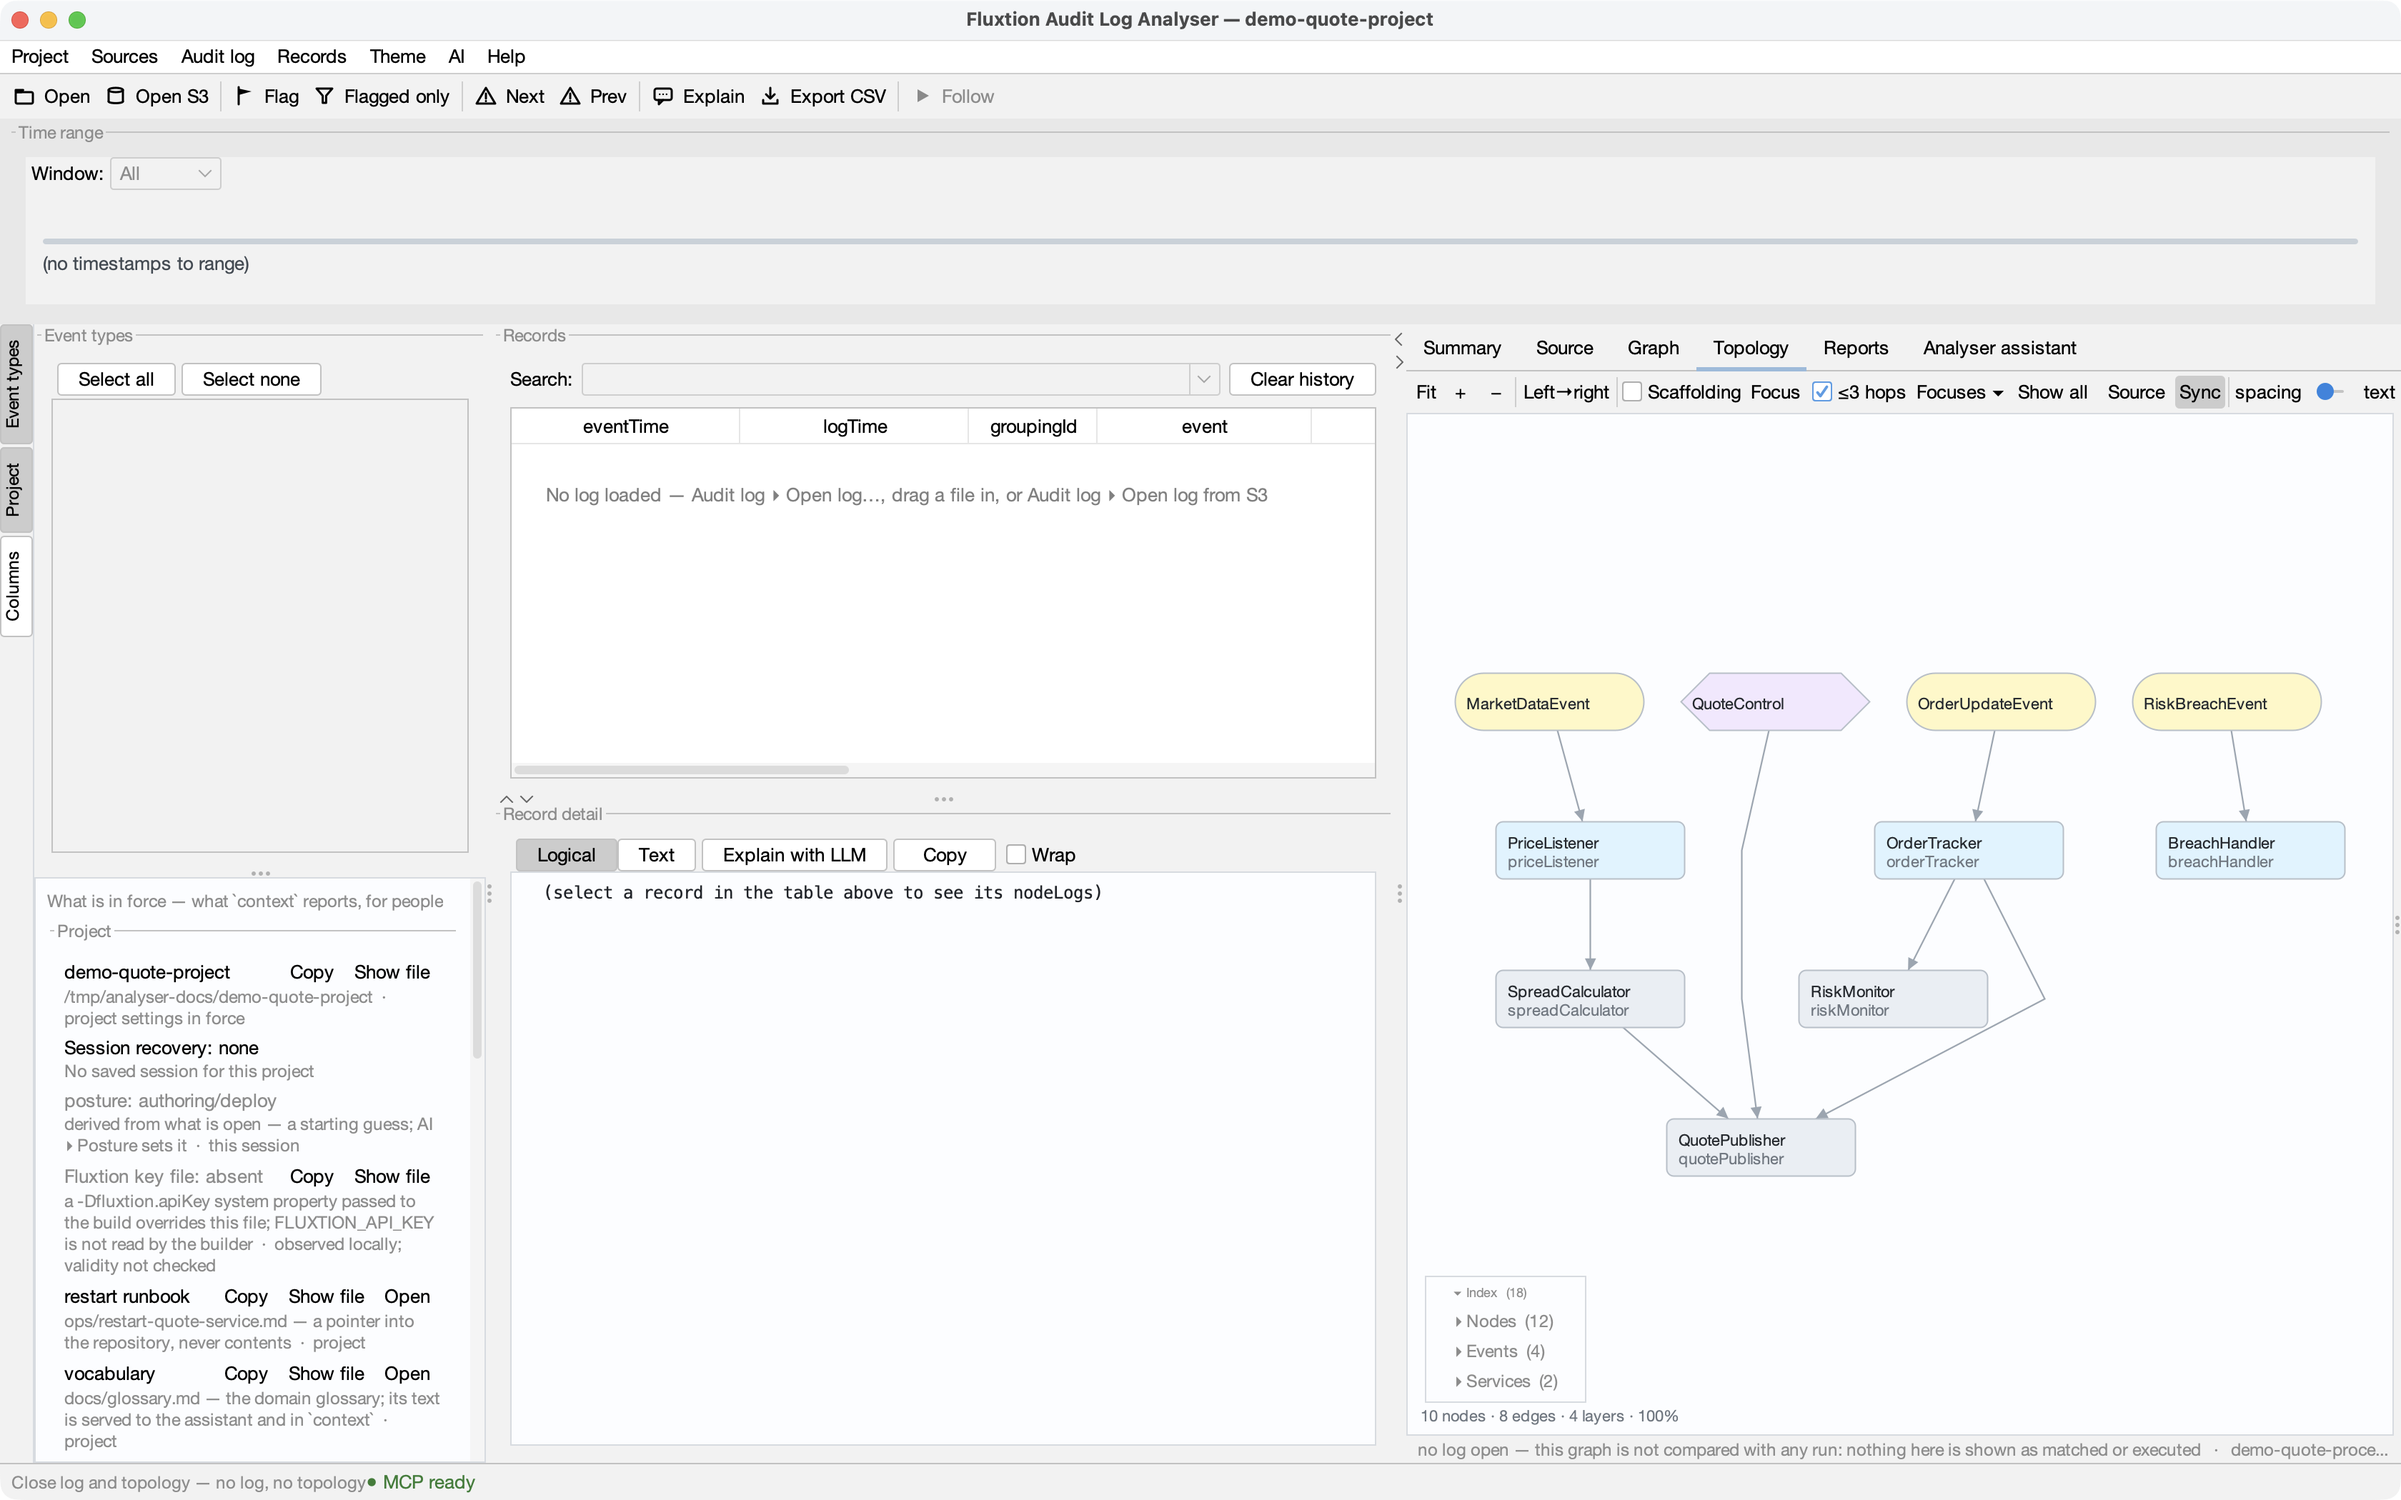
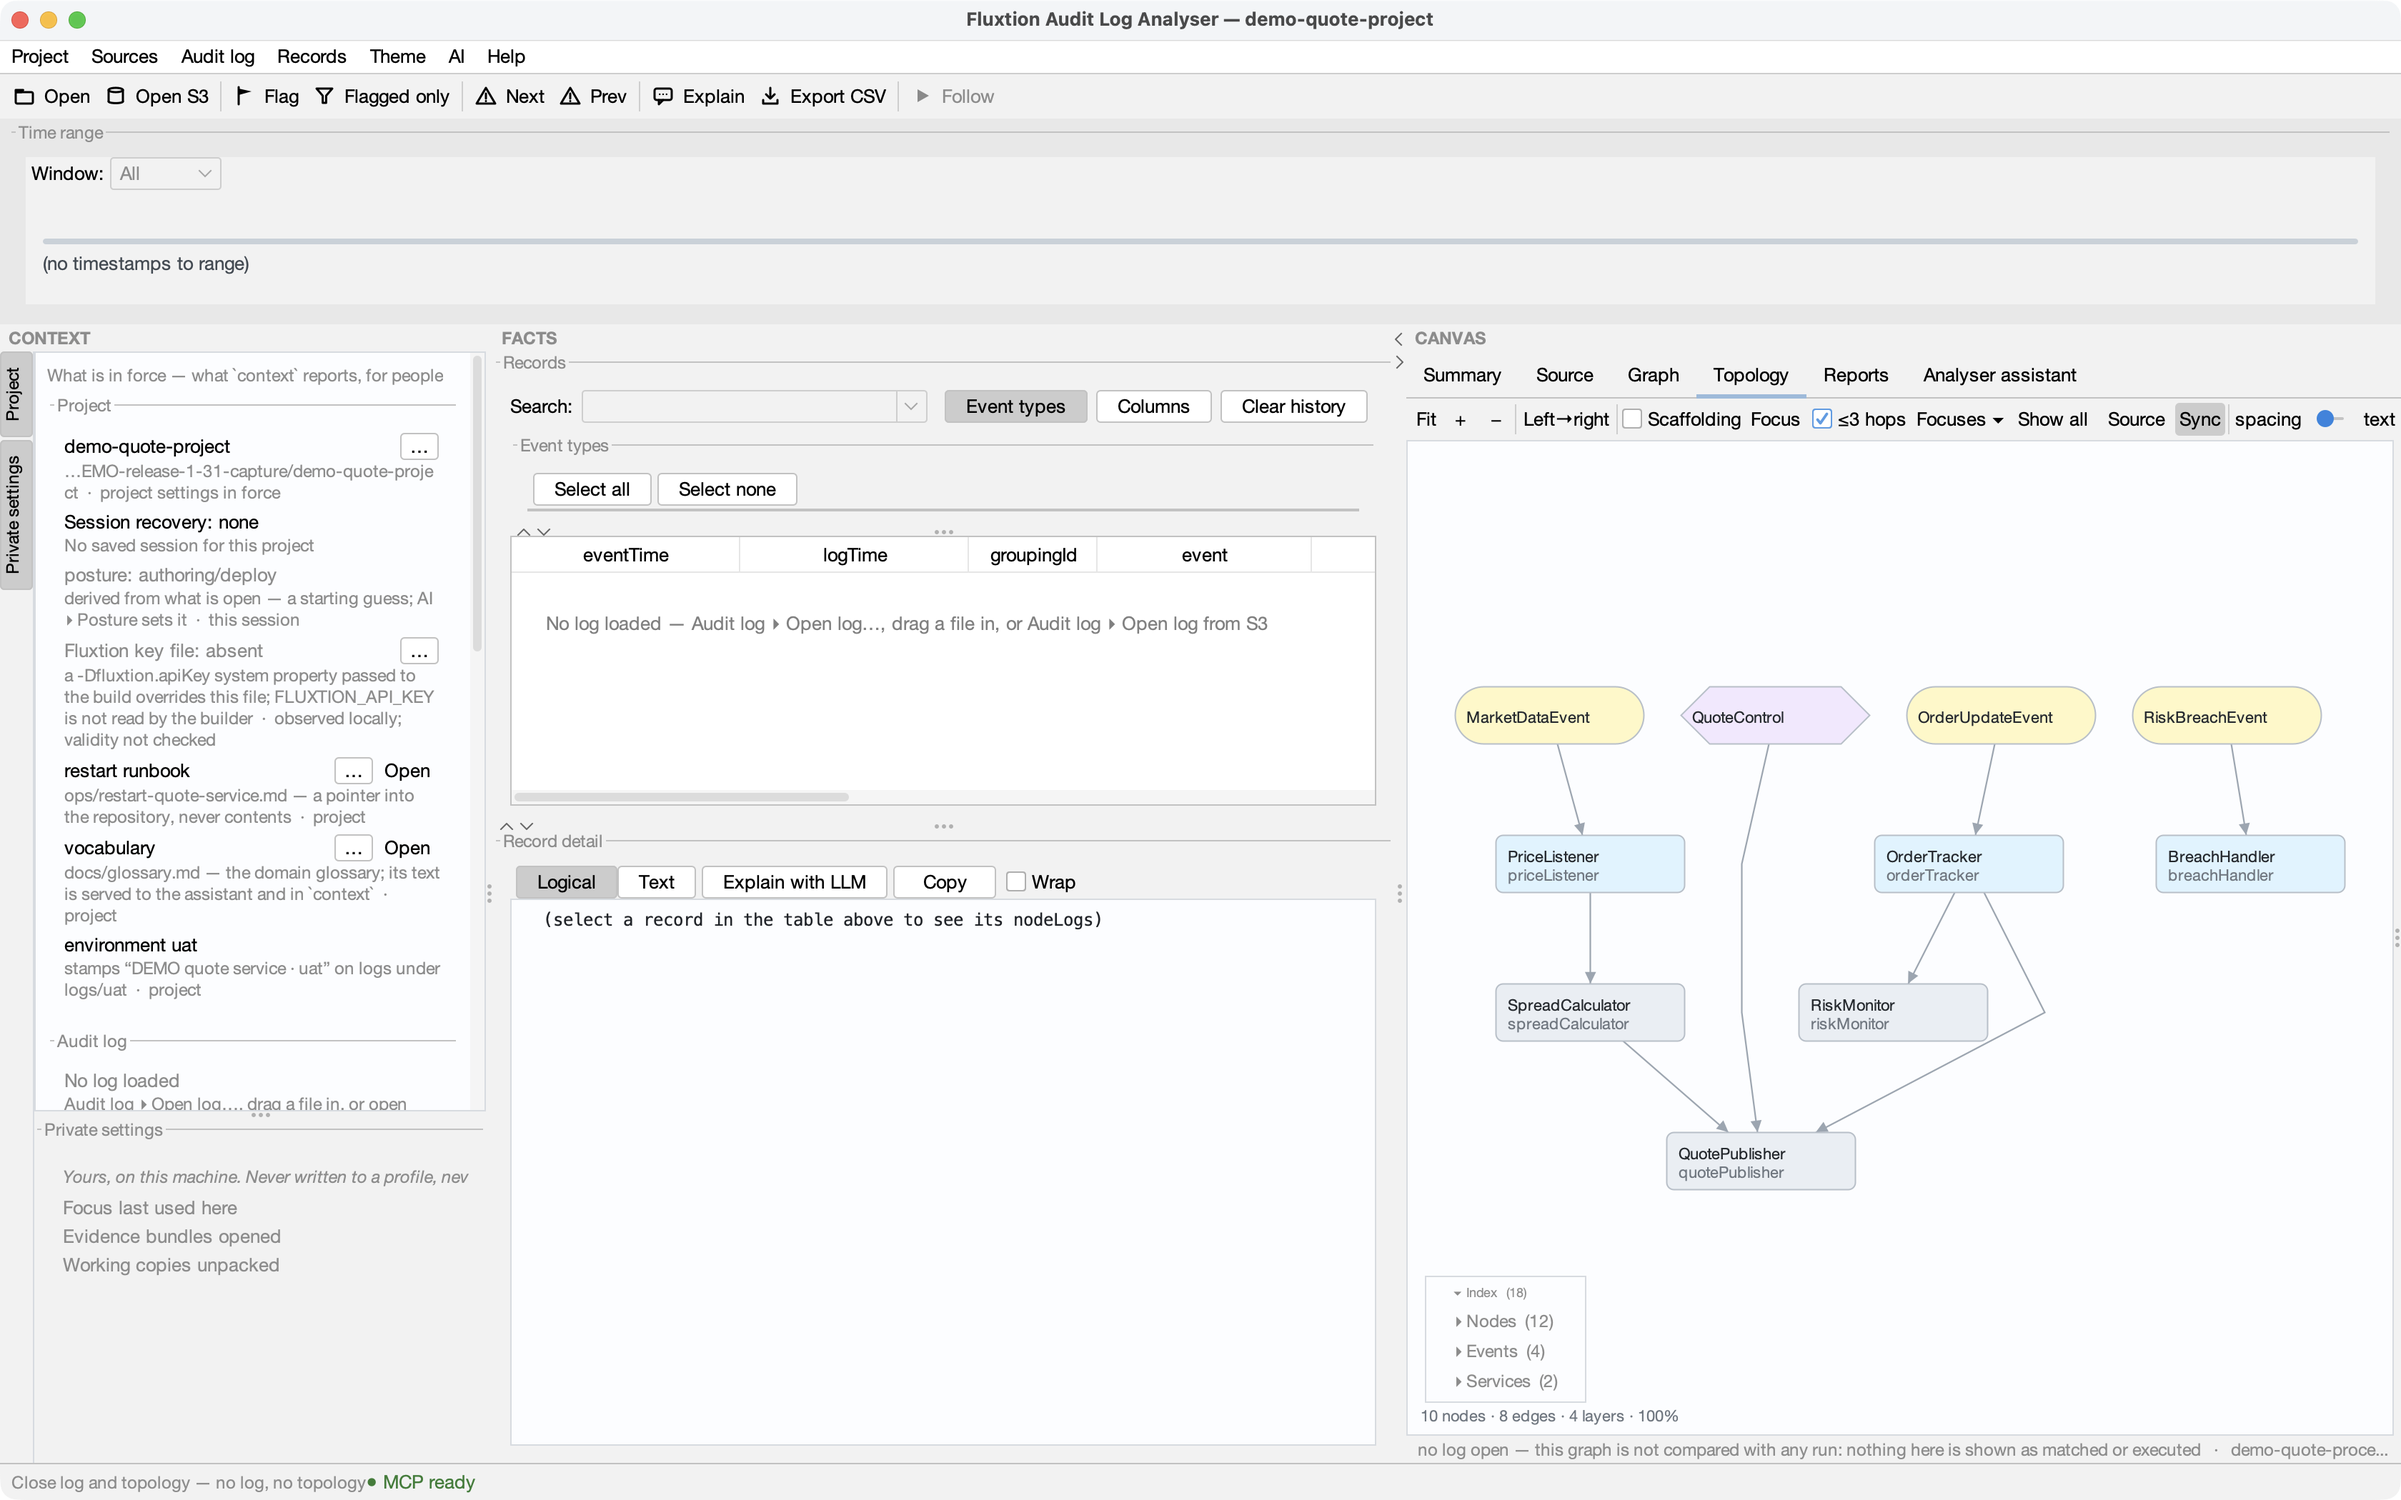
docs: refresh native conversation captures so 1.31.0 ships current UI evidence

diff --git a/docs/handoff/release_analyser_1_31_0_2026_10_05.md b/docs/handoff/release_analyser_1_31_0_2026_10_05.md
@@ -1,0 +1,57 @@
+# Analyser 1.31.0 release evidence
+
+Status: prepared; publication and download verification pending.
+
+Candidate: `c66f744d5fd7039be70032d79747f9a67df1514a`. Application tree is the reviewed
+PR #92 integration at `787f2e1a`; the subsequent change reconciles the tracker only.
+This release includes PR #87 redaction, PR #103's ten issue-84 corrections, PR #104's
+released-stack adoption, and PR #92's admin-record acceptance. It does not include PR #88.
+
+## Executed checks
+
+Counts below are total / failures / errors / skips.
+
+| Check | Result |
+|---|---|
+| JDK 21, `mvn -o -q package` | 3179 / 0 / 0 / 248; 419 Surefire reports; no orphans |
+| Main CI build, run 36864001774 | 3179 / 0 / 0 / 248 |
+| Main CI display, same run | 246 / 0 / 0 / 0 |
+| Main CI mutation collector, same run | 628 controls caught exactly once across four shards |
+| Docs-only main CI, run 36865693802 | Success; frame, mutation workers and loop bench correctly skipped |
+| `python3 tools/verify-m46-agent-api.py` | 16 checks; no failures; 24.38 s |
+| `python3 tools/verify-m48-handoff.py` | 18 checks; no failures; 12.53 s |
+| `python3 tools/verify-m64-spotlight.py` | 94 checks; no failures; 74.43 s |
+| `python3 tools/verify-session-restart.py` | PASS; five checks across three independent JVMs; 15.84 s |
+| `python3 tools/capture-conversations.py --require-images` | Seven scenarios completed; five native screenshots captured |
+| `mkdocs build --strict` | Exit 0 |
+| Whitespace and tracked public-data sweeps | Clean |
+
+The four smoke scripts ran sequentially under the shared display lock. All application instances
+used isolated homes and DEMO data. The capture wrapper assigned a unique, neutral scratch root
+so it could not disturb another capture session. Every screenshot was read by eye: title bars
+present, DEMO content only. The images now show the current Context / Facts / Canvas layout.
+The transcript's only change was JSON member ordering, so its original bytes were restored.
+No hosted provider, compiler key or model-client session was used. The full mutation gate was
+read from CI, not repeated locally.
+
+## Attempts retained
+
+- The first smoke wrapper blocked before launching any check because it combined two lock
+  mechanisms. It was stopped and rerun with one shared lock; this was not an application failure.
+- The documentation-validation Maven attempt inside the execution sandbox returned
+  3179 / 0 / 36 / 248: local socket binds were denied. Its log and XML reports were retained;
+  the unrestricted retry returned 3179 / 0 / 0 / 248 across 419 reports. The earlier package run and main CI were also green.
+
+## Remaining work is not claimed complete
+
+Upstream quoting of raw multiline values remains UPS-1a. The start-page DEMO refresh is the
+separate UPS-2b owner decision. PR #103's optional improvements, the remaining bundle issues,
+M70 whole-feature assurance, and the onboard assistant's outstanding live/native/cross-machine
+acceptance retain their tracker status. Issue #102 discloses the unchecked source revision;
+it does not establish source-content identity. The original runaway-mouse incident remains
+unconfirmed; the released modal-focus cancellation does not claim to explain it.
+
+## Publication
+
+Pending: release workflow, tag, public artefact hashes and manifests, stable download route,
+release-notes page and docs deployment.
